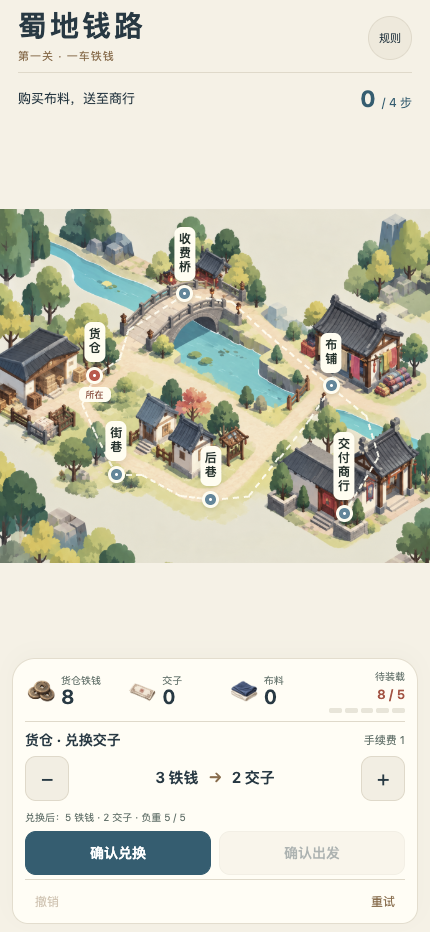
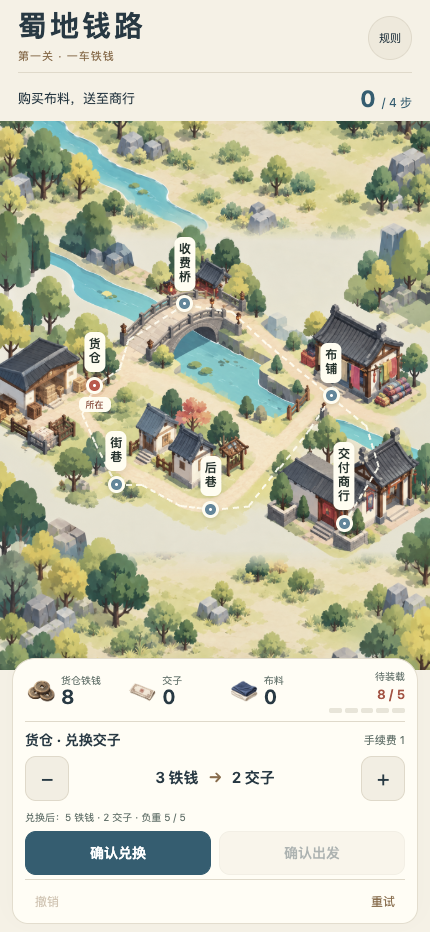
Extend town scenery above and below the playable map

diff --git a/web/app.js b/web/app.js
@@ -7,9 +7,9 @@ function icon(name){return `<img class="resource-icon" src="/miniapp/assets/gene
 function mapView(v){
  const atlas='/miniapp/assets/approved/town-atlas.png';
  const tiles=items=>items.map(t=>`<div class="scene-tile" style="${t.style}"><img src="${atlas}" style="${t.imageStyle}" alt="" draggable="false"></div>`).join('');
- return `<div class="map-stage"><div class="map reference-map" aria-label="商路地图">
- <div class="scene-terrain" aria-hidden="true">${tiles(v.terrainTiles)}</div>
- <div class="scene-buildings" aria-hidden="true">${tiles(v.artRegions)}</div>
+ return `<div class="map-stage"><div class="scene-continuation" aria-hidden="true"><div class="continuation-frame"><img class="continuation-art" src="/miniapp/assets/approved/town-extended.png" alt="" draggable="false"></div></div><div class="map reference-map" aria-label="商路地图">
+ <div class="scene-art"><div class="scene-terrain" aria-hidden="true">${tiles(v.terrainTiles)}</div>
+ <div class="scene-buildings" aria-hidden="true">${tiles(v.artRegions)}</div></div>
  <div class="road-layer" aria-hidden="true">${v.routeSegments.map(e=>`<div class="route route-dash" data-edge="${e.edge}" style="${e.style}"></div>`).join('')}</div>
  <div class="art-hit-layer">${v.artRegions.map(n=>`<button class="atlas-building-hit" style="${n.style}" data-building="${n.id}" aria-label="前往${n.name}建筑"></button>`).join('')}</div>
  <div class="interaction-layer">${v.nodes.map(n=>`<button class="node scene-node ${n.current?'current':''} ${n.reachable?'reachable':''}" style="${n.style}" data-node="${n.id}" aria-label="前往${n.name}${n.current?'，当前所在地':''}"><span class="scene-placard">${n.name}</span><span class="scene-pin"><i></i></span>${n.current?'<span class="you-marker">所在</span>':''}</button>`).join('')}</div>

diff --git a/miniapp/styles/game.css b/miniapp/styles/game.css
@@ -37,3 +37,10 @@ html,body,page{margin:0;height:100%;overflow:hidden;background:#e9e8df;color:var
 /* Grade artwork consistently without filtering live text or state markers. */
 .scene-tile img,.scene-tile image,.approved-cover img,.approved-cover image,
 .resource-icon,.intro-art,.result-art{filter:saturate(var(--art-saturation))}
+
+/* Outpainted terrain fills the flexible map area; the original town stays at its fixed scale. */
+.map-stage{overflow:hidden;margin-bottom:-20px}
+.scene-continuation{position:absolute;inset:0;pointer-events:none;overflow:hidden}
+.continuation-frame{position:absolute;left:0;top:50%;width:100%;aspect-ratio:2/3;min-height:100%;transform:translateY(-50%)}
+.continuation-art{position:absolute;inset:0;width:100%;height:100%;object-fit:cover;filter:saturate(var(--art-saturation))}
+.scene-art{position:absolute;inset:0;pointer-events:none;z-index:0;-webkit-mask-image:linear-gradient(to bottom,transparent,#000 22px,#000 calc(100% - 22px),transparent);mask-image:linear-gradient(to bottom,transparent,#000 22px,#000 calc(100% - 22px),transparent)}

diff --git a/docs/art-prompts.md b/docs/art-prompts.md
@@ -1,5 +1,11 @@
 # Imagegen 提示词记录
 
+## town-extended（上下场景延展）
+
+内置 imagegen 编辑现有 town-atlas.png，非透明背景；结果保存在 miniapp/assets/approved/town-extended.png。运行时作为独立外围地形底层，原中央图集仍保留，沿上下边缘融合。
+
+Use case: precise-object-edit / vertical outpainting. Input is the EDIT TARGET, an existing game town illustration. Extend the canvas vertically ABOVE and BELOW this exact image; do not zoom or crop the existing composition. Target portrait canvas approximately 1536 x 2304, aspect ratio 2:3. The ORIGINAL whole image must stay horizontally full-width, centered vertically, with its existing aspect ratio and its buildings, bridge, river, paths, rocks and trees at exactly the same scale and relative positions. The original scene should occupy the central approximately 55% of the final canvas height, with new terrain occupying about 22.5% above and 22.5% below. Preserve the central illustration with maximum fidelity. Outpaint the upper and lower missing landscape naturally: continue the existing river's upper-left course and banks into the top area, continue the trees and small grey rock clusters along both sides, extend warm pale ground with subtle grassy patches and small scattered shrubs through the center. Lower extension: continue foreground low plants, trees near the edges, and pale softly faceted ground with small patches of greenery; do not create broad empty uniform beige bands. The new areas should have gentle natural landscape detail distributed across their width, with enough open ground to remain calm, not dense forest. Same elevated isometric camera, same modern faceted digital game illustration, same light, matching original colors so seamless joining is possible (the app will apply its own desaturation). NO additional buildings, new bridges, mountains, fog, sky, borders, frames, vignettes, UI, text, icons or route markers. Absolutely preserve all six existing gameplay landmarks in their original central arrangement. This is a seamless terrain extension, not a redesigned or enlarged town.
+
 ## town-atlas（最新参考图场景版）
 
 内置 imagegen，编辑输入 docs/references/approved-game-ui.png，transparent_background=false。结果复制至 miniapp/assets/approved/town-atlas.png。场景分区渲染，全部 UI 与逻辑路线由代码覆盖。下方较早生成记录保留供溯源；旧建筑不再用于主地图。

diff --git a/outputs/视觉改造交付说明.md b/outputs/视觉改造交付说明.md
@@ -11,3 +11,9 @@
 规范在 docs/visual-spec.md；资源清单在 docs/asset-manifest.md；生成来源在 docs/art-prompts.md。地图资源是 miniapp/assets/approved/town-atlas.png，以矩形区域分层显示，当前尚未拆成独立透明建筑，不能无缝任意搬动建筑。生成图仍有局部细节变化，等待用户美术验收。
 
 后续重点：统一资源图标/结算插画笔触；补充独立透明建筑与无建筑地形；小红书真机性能、包体与安全区域验收。
+
+## 上下场景延展更新
+
+原空白带已接上林地、河岸和草地，场景填满顶部任务栏与底部钱袋之间的空间。保留原中央建筑比例、六个交互节点和0.62低饱和度。图片由内置imagegen扩图，文件：miniapp/assets/approved/town-extended.png；完整提示词：docs/art-prompts.md 的 town-extended 小节，要求向上下延展地形、保持中央构图、不新增建筑和UI。
+
+实际截图 extended-scene-390.png / extended-map-preview.png。三种手机尺寸的地形覆盖、比例、点击穿透及原有两条通关流程检查通过。

diff --git a/docs/visual-spec.md b/docs/visual-spec.md
@@ -48,3 +48,9 @@
 ## 界面文案精简
 
 移除地图下方教学小字、撤销旁重复说明、首页底部重复文案、默认备钱提醒及规则中的历史币值免责声明。保留操作相关的手续费、支付/负重预览、错误原因与资源变化。无反馈内容时收起反馈行，不预留空行。历史背景说明仅留在项目文档中。
+
+## 上下场景延展
+
+新增 `miniapp/assets/approved/town-extended.png`，由内置 imagegen 对中央图集向上下扩图。独立 scene-continuation 底层填满任务区与钱袋区之间的弹性高度，保留原中央图集的634:522比例和六个节点锚点。中央图集的上下边缘以22px蒙版过渡到延展地形；文字、路线和点击层不参与蒙版。地形进入底部面板后方，避免留白带。全场景继续使用0.62饱和度令牌。
+
+`tests/terrain-extension.cjs` 验证375×812、390×844、430×932上的地形覆盖、图片加载、图集比例和点击穿透；`tests/fixed-screen.cjs` 继续验证两条路线及单屏操作。

diff --git a/docs/test-report.md b/docs/test-report.md
@@ -20,3 +20,7 @@
 小红书官方编译器、模拟器和真机；当前无AppID和官方工具。Node VM中的Page/setData测试及XML结构检查不能替代官方编译。图集重复引用的原生内存表现、发布资源包体、系统安全区仍须平台验证。没有声称所有可能bug已经消除。
 
 本次未修改core/engine.js、core/level.js、core/presenter.js。
+
+## 上下延展回归
+
+实际执行 tests/terrain-extension.cjs，375×812、390×844、430×932均通过：扩图加载成功，地形覆盖整个地图区域，顶部任务区至底部面板间没有空白带，中央地图比例保持634:522，扩图层不拦截点击。原tests/fixed-screen.cjs全流程再次通过。原生模板基础XML结构检查通过。

diff --git a/docs/asset-manifest.md b/docs/asset-manifest.md
@@ -5,6 +5,7 @@
 |资源|位置|身份 / 用途|透明|
 |---|---|---|---|
 |用户最新原始地图参考|docs/references/approved-game-ui.png|正式视觉参考，不是运行时背景|否|
+|上下延展地形|miniapp/assets/approved/town-extended.png|imagegen 以原图集扩展；填充地图上下空间，独立底层|否|
 |去文字场景图集|miniapp/assets/approved/town-atlas.png|imagegen 依据参考图编辑；当前地图和首页使用，等待用户验收|否|
 |iron / note / cloth.png|miniapp/assets/generated/|此前生成的三种钱袋资源图标|是|
 |warehouse / delivery.png|miniapp/assets/generated/|此前生成的结算页插画，后续需与新场景统一|是|
